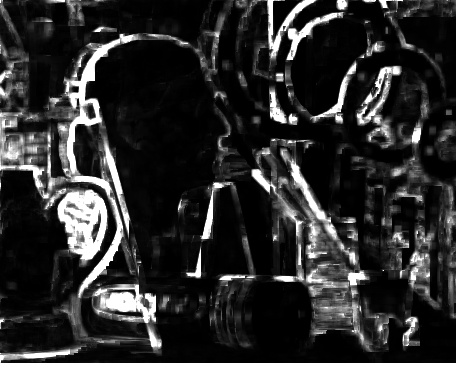
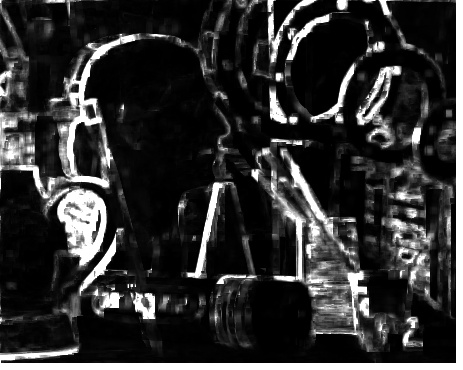
implement Propagation from lower right

diff --git a/nanopm.h b/nanopm.h
@@ -451,7 +451,7 @@ struct Option {
   int patch_size = 7;
   int max_iter = 5;
 
-  float w = 16.0f;
+  float w = 32.0f;
   float alpha = 0.5f;
 
   InitType init_type = InitType::RANDOM;
@@ -461,6 +461,11 @@ struct Option {
   unsigned int random_seed = 0;  // for repeatability
 
   DistanceType distance_type = DistanceType::SSD;
+
+  // if true
+  // even iteration: propagate from upper left
+  // odd iteration: propagate from lower right
+  bool alternately_reverse = true;
 
   bool verbose = true;
   std::string debug_dir = "";
@@ -580,7 +585,7 @@ class DistanceCache {
 };
 
 bool Propagation(Image2f& nnf, int x, int y, int x_max, int y_max,
-                 DistanceCache& distance_cache);
+                 DistanceCache& distance_cache, bool reverse);
 
 bool RandomSearch(Image2f& nnf, int x, int y, int x_max, int y_max,
                   DistanceCache& distance_cache, float radius,
@@ -591,7 +596,7 @@ bool Initialize(Image2f& nnf, int B_w, int B_h, const Option& option,
                 std::default_random_engine& engine);
 
 bool UpdateOffsetWithGuard(Vec2f& offset, int patch_size, int x, int y,
-                           int x_max, int y_max);
+                           int x_max, int y_max, bool reverse = false);
 
 bool DebugDump(const std::string& debug_dir, const std::string& postfix,
                const Image2f& nnf, const Image1f& distance);
@@ -645,21 +650,43 @@ inline bool Compute(const Image3b& A, const Image3b& B, Image2f& nnf,
     // todo: paralellize here.
     // "in practice long propagations are not needed"
     // See "3.2 Iteration GPU implementation." of the original paper
-    for (int j = 0; j < nnf.rows - option.patch_size; j++) {
-      if (j % (nnf.rows / 4) == 0 && !option.debug_dir.empty()) {
-        impl::DebugDump(
-            option.debug_dir,
-            std::to_string(iter) + "_" + std::to_string(j / (nnf.rows / 4)),
-            nnf, distance_cache.min_distance());
+
+    if (!option.alternately_reverse ||
+        (option.alternately_reverse && iter % 2 == 0)) {
+      for (int j = 0; j < nnf.rows - option.patch_size; j++) {
+        if (j % (nnf.rows / 4) == 0 && !option.debug_dir.empty()) {
+          impl::DebugDump(
+              option.debug_dir,
+              std::to_string(iter) + "_" + std::to_string(j / (nnf.rows / 4)),
+              nnf, distance_cache.min_distance());
+        }
+
+        for (int i = 0; i < nnf.cols - option.patch_size; i++) {
+          // Propagation
+          impl::Propagation(nnf, i, j, B.cols, B.rows, distance_cache, false);
+
+          // Random search
+          impl::RandomSearch(nnf, i, j, B.cols, B.rows, distance_cache, radius,
+                             engine, distribution_rs);
+        }
       }
+    } else if (option.alternately_reverse && iter % 2 != 0) {
+      for (int j = nnf.rows - option.patch_size; j >= 0; j--) {
+        if (j % (nnf.rows / 4) == 0 && !option.debug_dir.empty()) {
+          impl::DebugDump(option.debug_dir,
+                          std::to_string(iter) + "_" +
+                              std::to_string(4 - j / (nnf.rows / 4)),
+                          nnf, distance_cache.min_distance());
+        }
 
-      for (int i = 0; i < nnf.cols - option.patch_size; i++) {
-        // Propagation
-        impl::Propagation(nnf, i, j, B.cols, B.rows, distance_cache);
+        for (int i = nnf.cols - option.patch_size; i >= 0; i--) {
+          // Propagation
+          impl::Propagation(nnf, i, j, B.cols, B.rows, distance_cache, true);
 
-        // Random search
-        impl::RandomSearch(nnf, i, j, B.cols, B.rows, distance_cache, radius,
-                           engine, distribution_rs);
+          // Random search
+          impl::RandomSearch(nnf, i, j, B.cols, B.rows, distance_cache, radius,
+                             engine, distribution_rs);
+        }
       }
     }
 
@@ -892,8 +919,32 @@ inline bool SSD(const Image3b& A, int A_x, int A_y, const Image3b& B, int B_x,
   return true;
 }
 
-inline bool UpdateOffsetWithGuard(Vec2f& offset, int patch_size, int x, int y,
-                                  int x_max, int y_max) {
+inline bool UpdateOffsetWithGuardBackward(Vec2f& offset, int patch_size, int x,
+                                          int y, int x_max, int y_max) {
+  bool ret{false};
+  float new_x = offset[0] + x;
+  if (new_x < patch_size) {
+    offset[0] = static_cast<float>(-x + patch_size);
+    ret = true;
+  } else if (new_x > x_max - 1) {
+    offset[0] = static_cast<float>(x_max - 1 - x);
+    ret = true;
+  }
+
+  float new_y = offset[1] + y;
+  if (new_y < patch_size) {
+    offset[1] = static_cast<float>(-y + patch_size);
+    ret = true;
+  } else if (new_y > y_max - 1) {
+    offset[1] = static_cast<float>(y_max - 1 - y);
+    ret = true;
+  }
+
+  return ret;
+}
+
+inline bool UpdateOffsetWithGuardForward(Vec2f& offset, int patch_size, int x,
+                                         int y, int x_max, int y_max) {
   bool ret{false};
   float new_x = offset[0] + x;
   if (new_x < 0) {
@@ -916,8 +967,17 @@ inline bool UpdateOffsetWithGuard(Vec2f& offset, int patch_size, int x, int y,
   return ret;
 }
 
+inline bool UpdateOffsetWithGuard(Vec2f& offset, int patch_size, int x, int y,
+                                  int x_max, int y_max, bool reverse) {
+  if (reverse) {
+    return UpdateOffsetWithGuardBackward(offset, patch_size, x, y, x_max,
+                                         y_max);
+  }
+  return UpdateOffsetWithGuardForward(offset, patch_size, x, y, x_max, y_max);
+}
+
 inline bool Propagation(Image2f& nnf, int x, int y, int x_max, int y_max,
-                        DistanceCache& distance_cache) {
+                        DistanceCache& distance_cache, bool reverse) {
   bool updated{false};
 
   Vec2f& current_offset = nnf.at<Vec2f>(y, x);
@@ -933,7 +993,7 @@ inline bool Propagation(Image2f& nnf, int x, int y, int x_max, int y_max,
   dist_list[0] = current_dist;
 
   Vec2f offset_l;
-  if (x > 0) {
+  if (!reverse && x > 0) {
     offset_l = nnf.at<Vec2f>(y, x - 1);
     bool gurded = UpdateOffsetWithGuard(offset_l, distance_cache.patch_size(),
                                         x, y, x_max, y_max);
@@ -968,12 +1028,47 @@ inline bool Propagation(Image2f& nnf, int x, int y, int x_max, int y_max,
       dist_list[1] = current_l_dist - l_dist + r_dist;
     }
 
+  } else if (reverse && x > distance_cache.patch_size() - 1) {
+    offset_l = nnf.at<Vec2f>(y, x + 1);
+    bool gurded = UpdateOffsetWithGuard(offset_l, distance_cache.patch_size(),
+                                        x, y, x_max, y_max, true);
+
+    float& current_l_dist = distance_cache.min_distance().at<float>(y, x + 1);
+
+    if (gurded || current_l_dist < 0.0f) {
+      distance_cache.query(x, y, static_cast<int>(offset_l[0]),
+                           static_cast<int>(offset_l[1]), dist_list[1],
+                           updated);
+    } else {
+      // integral image like technique described in "3.2 Iteration
+      // Efficiency."
+
+      // substract right col
+      float r_dist;
+      CalcDistance(
+          *distance_cache.A(), x + distance_cache.patch_size(), y,
+          *distance_cache.B(),
+          static_cast<int>(offset_l[0]) + x + distance_cache.patch_size(),
+          static_cast<int>(offset_l[1]) + y, 1, distance_cache.patch_size(),
+          distance_cache.distance_type(), r_dist);
+
+      // add left col
+      float l_dist;
+      CalcDistance(*distance_cache.A(), x, y, *distance_cache.B(),
+                   static_cast<int>(offset_l[0]) + x,
+                   static_cast<int>(offset_l[1]) + y, 1,
+                   distance_cache.patch_size(), distance_cache.distance_type(),
+                   l_dist);
+
+      dist_list[1] = current_l_dist + l_dist - r_dist;
+    }
+
   } else {
     dist_list[1] = std::numeric_limits<float>::max();
   }
 
   Vec2f offset_u;
-  if (y > 0) {
+  if (!reverse && y > 0) {
     offset_u = nnf.at<Vec2f>(y - 1, x);
     bool gurded = UpdateOffsetWithGuard(offset_u, distance_cache.patch_size(),
                                         x, y, x_max, y_max);
@@ -1008,6 +1103,42 @@ inline bool Propagation(Image2f& nnf, int x, int y, int x_max, int y_max,
 
       dist_list[2] = current_u_dist - u_dist + b_dist;
     }
+  } else if (reverse && y > distance_cache.patch_size() - 1) {
+    offset_u = nnf.at<Vec2f>(y + 1, x);
+    bool gurded = UpdateOffsetWithGuard(offset_u, distance_cache.patch_size(),
+                                        x, y, x_max, y_max, true);
+
+    float& current_u_dist = distance_cache.min_distance().at<float>(y + 1, x);
+
+    if (gurded || current_u_dist < 0.0f) {
+      distance_cache.query(x, y, static_cast<int>(offset_u[0]),
+                           static_cast<int>(offset_u[1]), dist_list[2],
+                           updated);
+
+    } else {
+      // integral image like technique described in "3.2 Iteration
+      // Efficiency."
+
+      // substract bottom most col
+      float b_dist;
+      CalcDistance(
+          *distance_cache.A(), x, y + +distance_cache.patch_size(),
+          *distance_cache.B(), static_cast<int>(offset_u[0]) + x,
+          static_cast<int>(offset_u[1]) + y + +distance_cache.patch_size(),
+          distance_cache.patch_size(), 1, distance_cache.distance_type(),
+          b_dist);
+
+      // add upper col
+      float u_dist;
+      CalcDistance(*distance_cache.A(), x, y, *distance_cache.B(),
+                   static_cast<int>(offset_u[0]) + x,
+                   static_cast<int>(offset_u[1]) + y,
+                   distance_cache.patch_size(), 1,
+                   distance_cache.distance_type(), u_dist);
+
+      dist_list[2] = current_u_dist - b_dist + u_dist;
+    }
+
   } else {
     dist_list[2] = std::numeric_limits<float>::max();
   }
